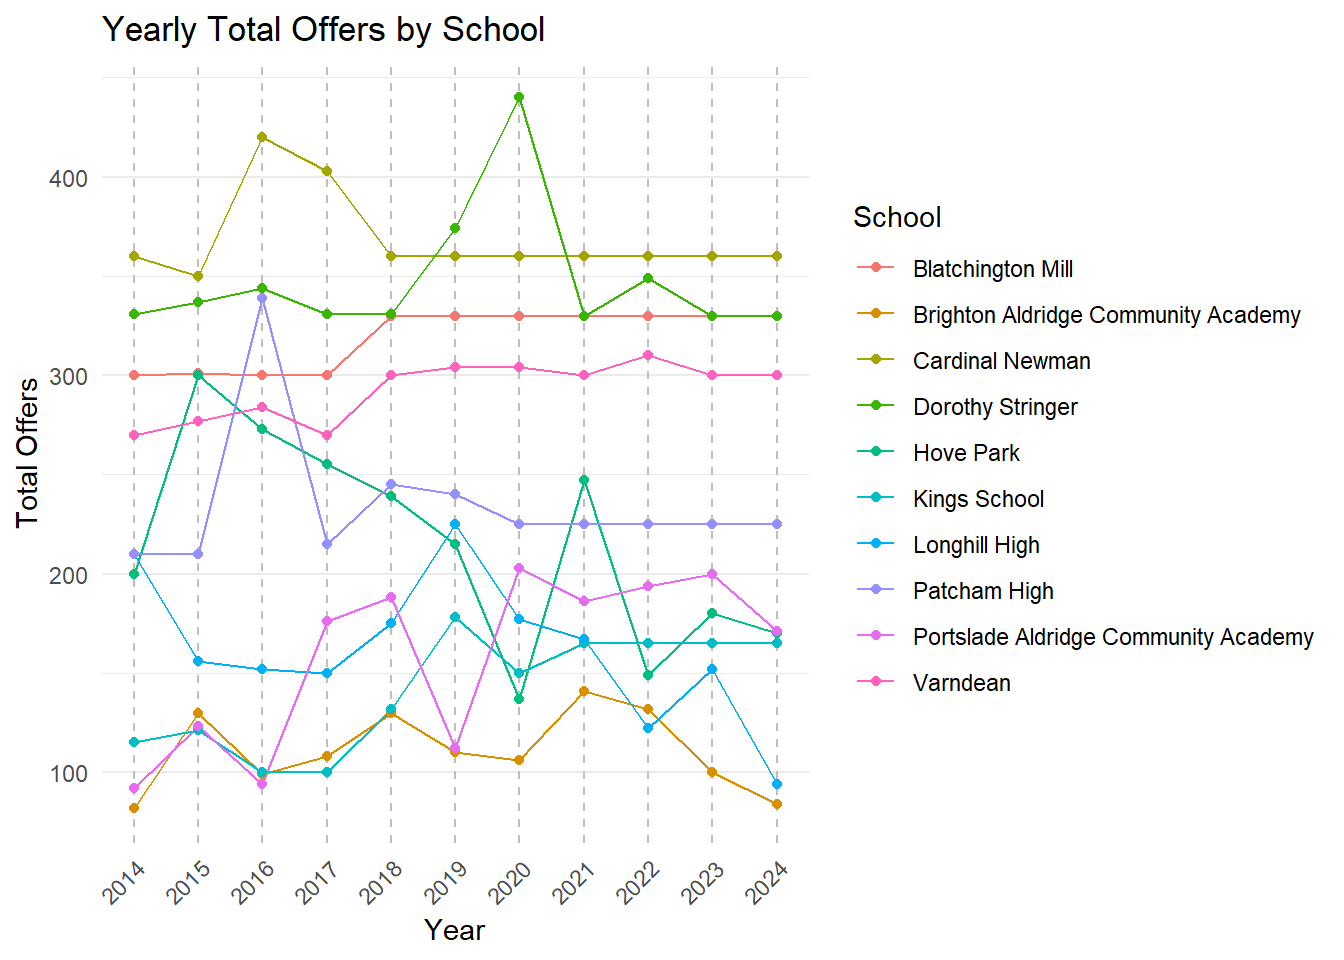
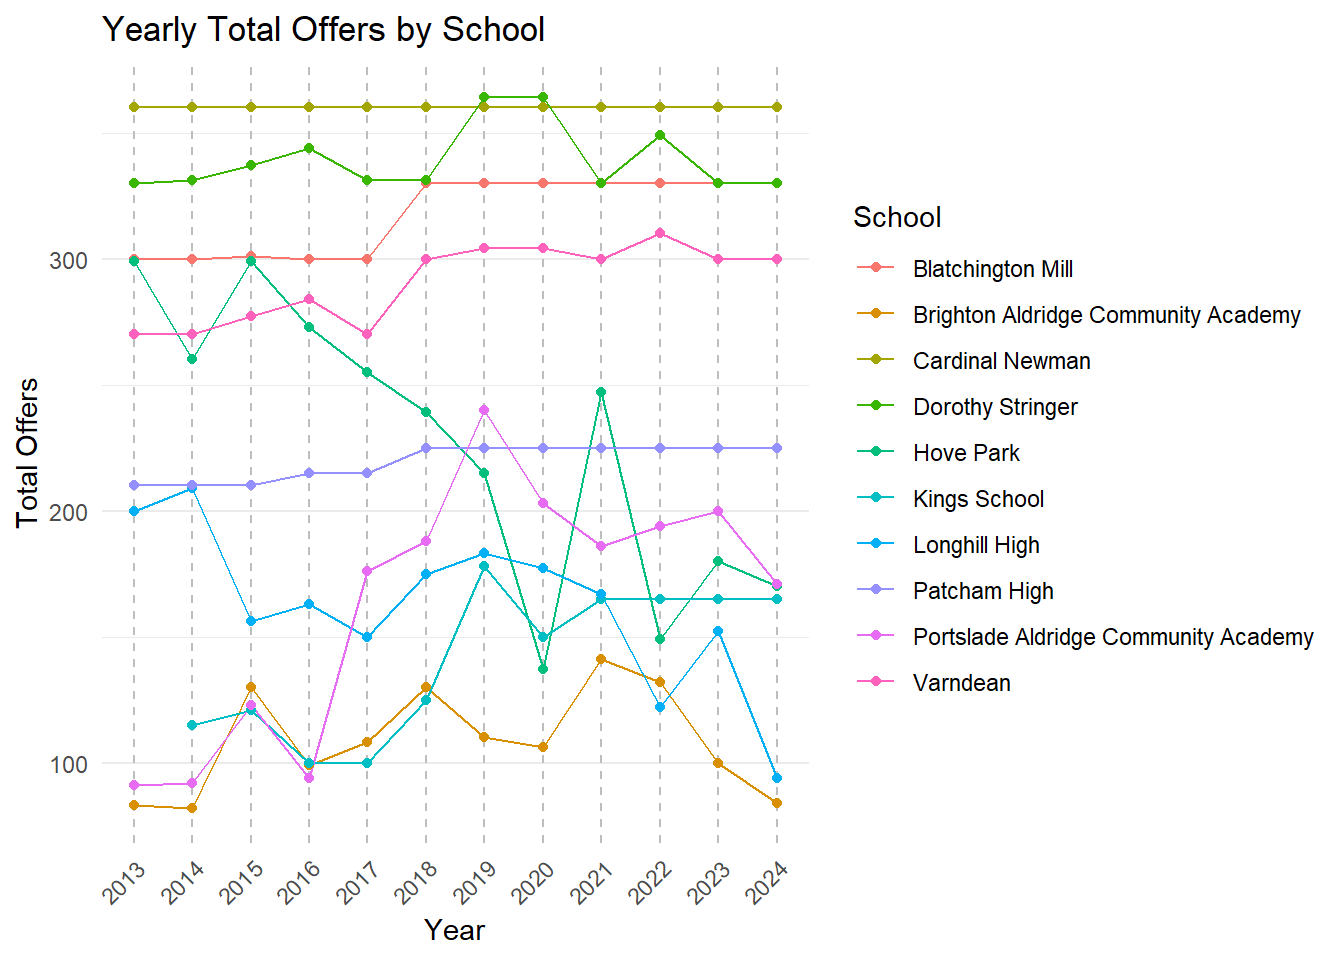
updates to graphs etc.

diff --git a/docs/factsheet.html b/docs/factsheet.html
@@ -211,13 +211,14 @@ gtag('config', 'G-HFKH18TWMG', { 'anonymize_ip': true});
 </section>
 <section id="fact-2---school-demand" class="level2">
 <h2 class="anchored" data-anchor-id="fact-2---school-demand">Fact 2 - School Demand</h2>
-<p>Demand for schools varies significantly across the city. At the lower end, in the last 5-years, Longhill has received significantly fewer <strong><em>total applications</em></strong> (1st, 2nd and 3rd choice combined) than its Published Admission Number (PAN) of 270.</p>
-<p>Over the last 10 years (since 2014), Longhill’s total offers have trended down every year, and it has never achieved anywhere near 270 offers. It’s peak was in 2019 when it made 225 offers. Last year it made 94 offers.</p>
+<p>Demand for schools varies significantly across the city. At the lower end, in the last 11-years, Longhill has received fewer <strong><em>total applications</em></strong> (1st, 2nd and 3rd choice combined) than its Published Admission Number (PAN) of 270. For comparison, another single catchment school - Patcham High, has generally received around twice as many total applications than PAN.</p>
+<p>Over the last 11 years (since 2013), Longhill’s total offers have trended down every year, and it has never achieved anywhere near 270 offers. It’s peak was in 2014 when it made 209 offers. Last year it made 94 offers.</p>
+<p><img src="images/yearly_apps_sml.png" class="img-fluid"></p>
 <p><img src="images/yearly_offers_sml.png" class="img-fluid"></p>
 </section>
 <section id="fact-3---geodemographic-reality" class="level2">
 <h2 class="anchored" data-anchor-id="fact-3---geodemographic-reality">Fact 3 - Geodemographic Reality</h2>
-<p>School children in Brighton and Hove are not distributed evenly across the city and not all school locations correspond to where pupils live. Both Longhill and, to a lesser extent, BACA are located away from where students current live and are likely to live in the future.</p>
+<p>School children in Brighton and Hove are not distributed evenly across the city and not all school locations correspond to where pupils live. Both Longhill and, to a lesser extent, BACA are located away from where students current live and are likely to live in the future. Any desire to “Maintain the geographic spread of secondary schools in the city” makes no sense if that spread bears no relation to where children live.</p>
 <p><img src="images/map_11_year_olds_2024.png" class="img-fluid"></p>
 </section>
 <section id="fact-4---demographic-decline-and-pan-reductions" class="level2">
